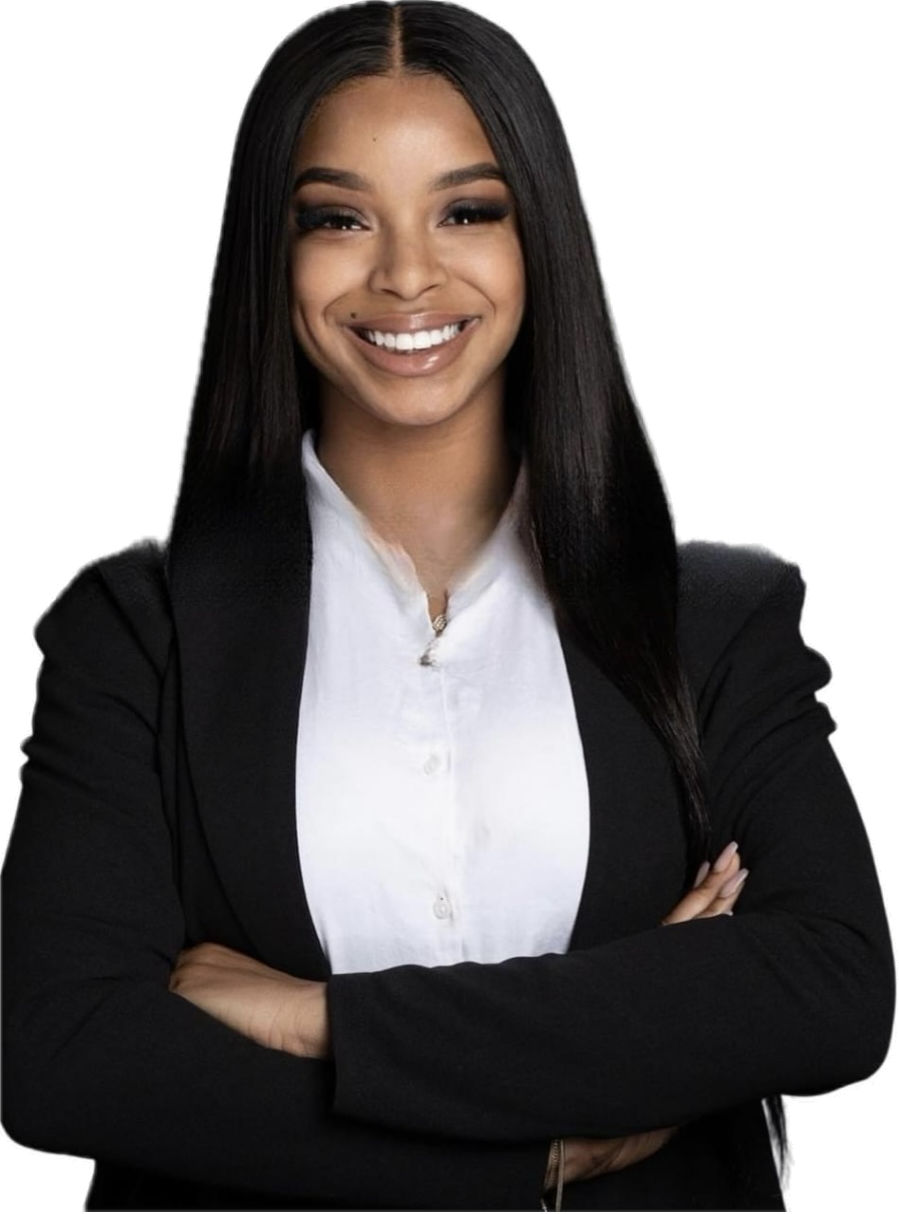
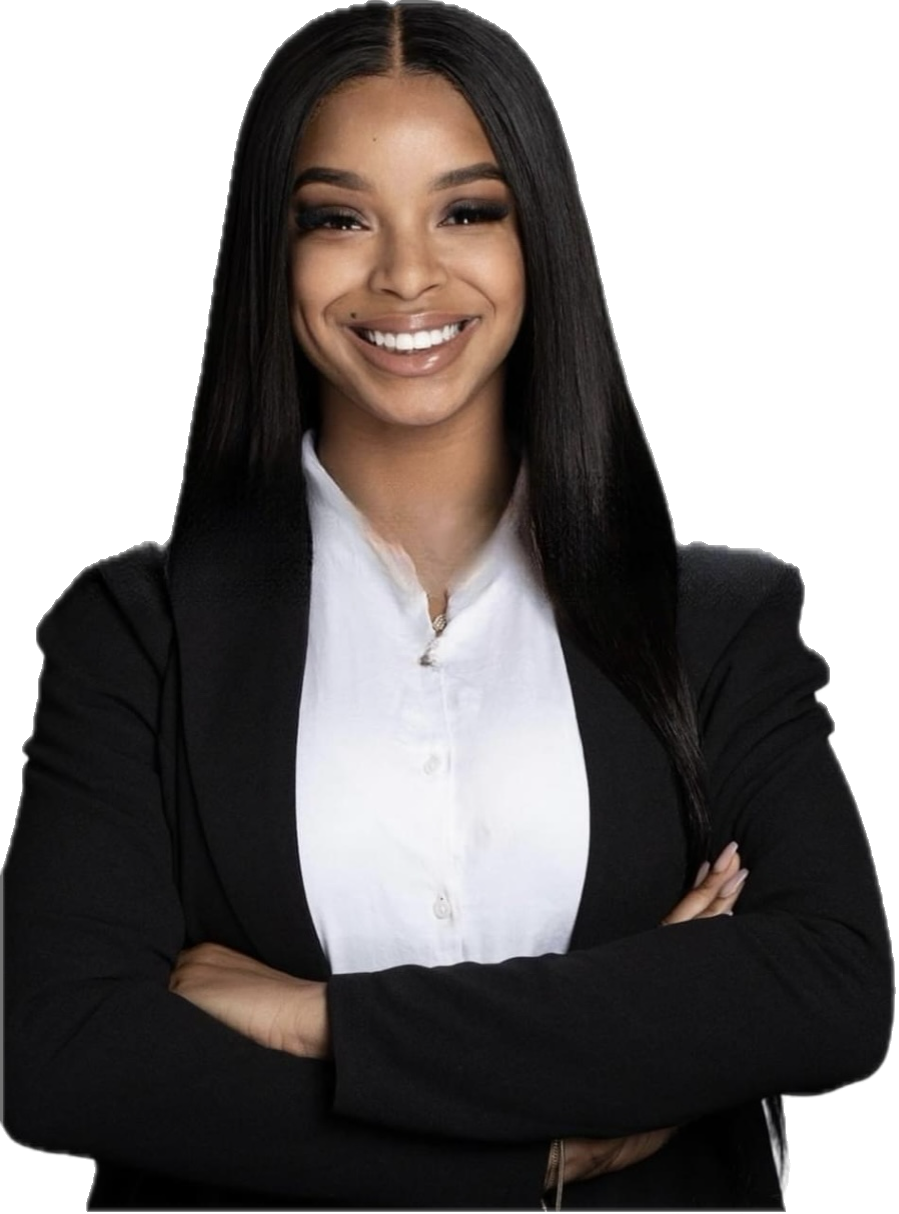
Update jlen-bester headshot and styling
Replit-Commit-Author: Agent

diff --git a/artifacts/jlen-bester/src/index.css b/artifacts/jlen-bester/src/index.css
@@ -146,7 +146,7 @@ button, a { -webkit-tap-highlight-color: transparent; }
 .hero-visual { height: 100%; min-height: 650px; position: relative; display: flex; align-items: center; justify-content: center; overflow: hidden; }
 .hero-visual::before { content: ''; position: absolute; width: min(43vw, 610px); aspect-ratio: 1; border: 1px solid rgba(212,187,139,.24); border-radius: 50%; transform: translate(10%, 4%); }
 .hero-visual::after { content: ''; position: absolute; width: min(34vw, 470px); aspect-ratio: 1; border: 1px solid rgba(212,187,139,.12); border-radius: 50%; transform: translate(10%, 4%); }
-.hero-portrait { position: absolute; z-index: 1; bottom: 0; left: 50%; transform: translateX(-50%); display: block; width: auto; height: min(680px, 85%); max-width: 100%; object-fit: contain; object-position: center bottom; filter: drop-shadow(0 18px 30px rgba(5, 19, 29, .22)); }
+.hero-portrait { position: absolute; z-index: 1; bottom: 0; left: 50%; transform: translateX(-50%); display: block; width: auto; height: min(680px, 85%); max-width: 100%; object-fit: contain; object-position: center bottom; }
 .hero-side-label { position: absolute; right: 0; bottom: 56px; writing-mode: vertical-rl; color: var(--brass-light); opacity: .8; font: 400 10px/1 var(--app-font-mono); letter-spacing: .2em; text-transform: uppercase; }
 .hero-bottom { position: absolute; bottom: 0; left: 0; right: 0; height: 52px; display: flex; align-items: center; border-top: 1px solid rgba(235,230,218,.13); color: #8b9aa1; }
 .hero-bottom .container { display: flex; justify-content: space-between; align-items: center; }

diff --git a/artifacts/jlen-bester/src/App.tsx b/artifacts/jlen-bester/src/App.tsx
@@ -195,7 +195,7 @@ function App() {
             <div className="hero-visual">
               <img
                 className="hero-portrait"
-                src={`${import.meta.env.BASE_URL}jlen-bester-headshot.png`}
+                src={`${import.meta.env.BASE_URL}jlen-bester-headshot-clean.png`}
                 alt="J'Len Bester smiling in a black blazer and white blouse"
                 width="899"
                 height="1214"
